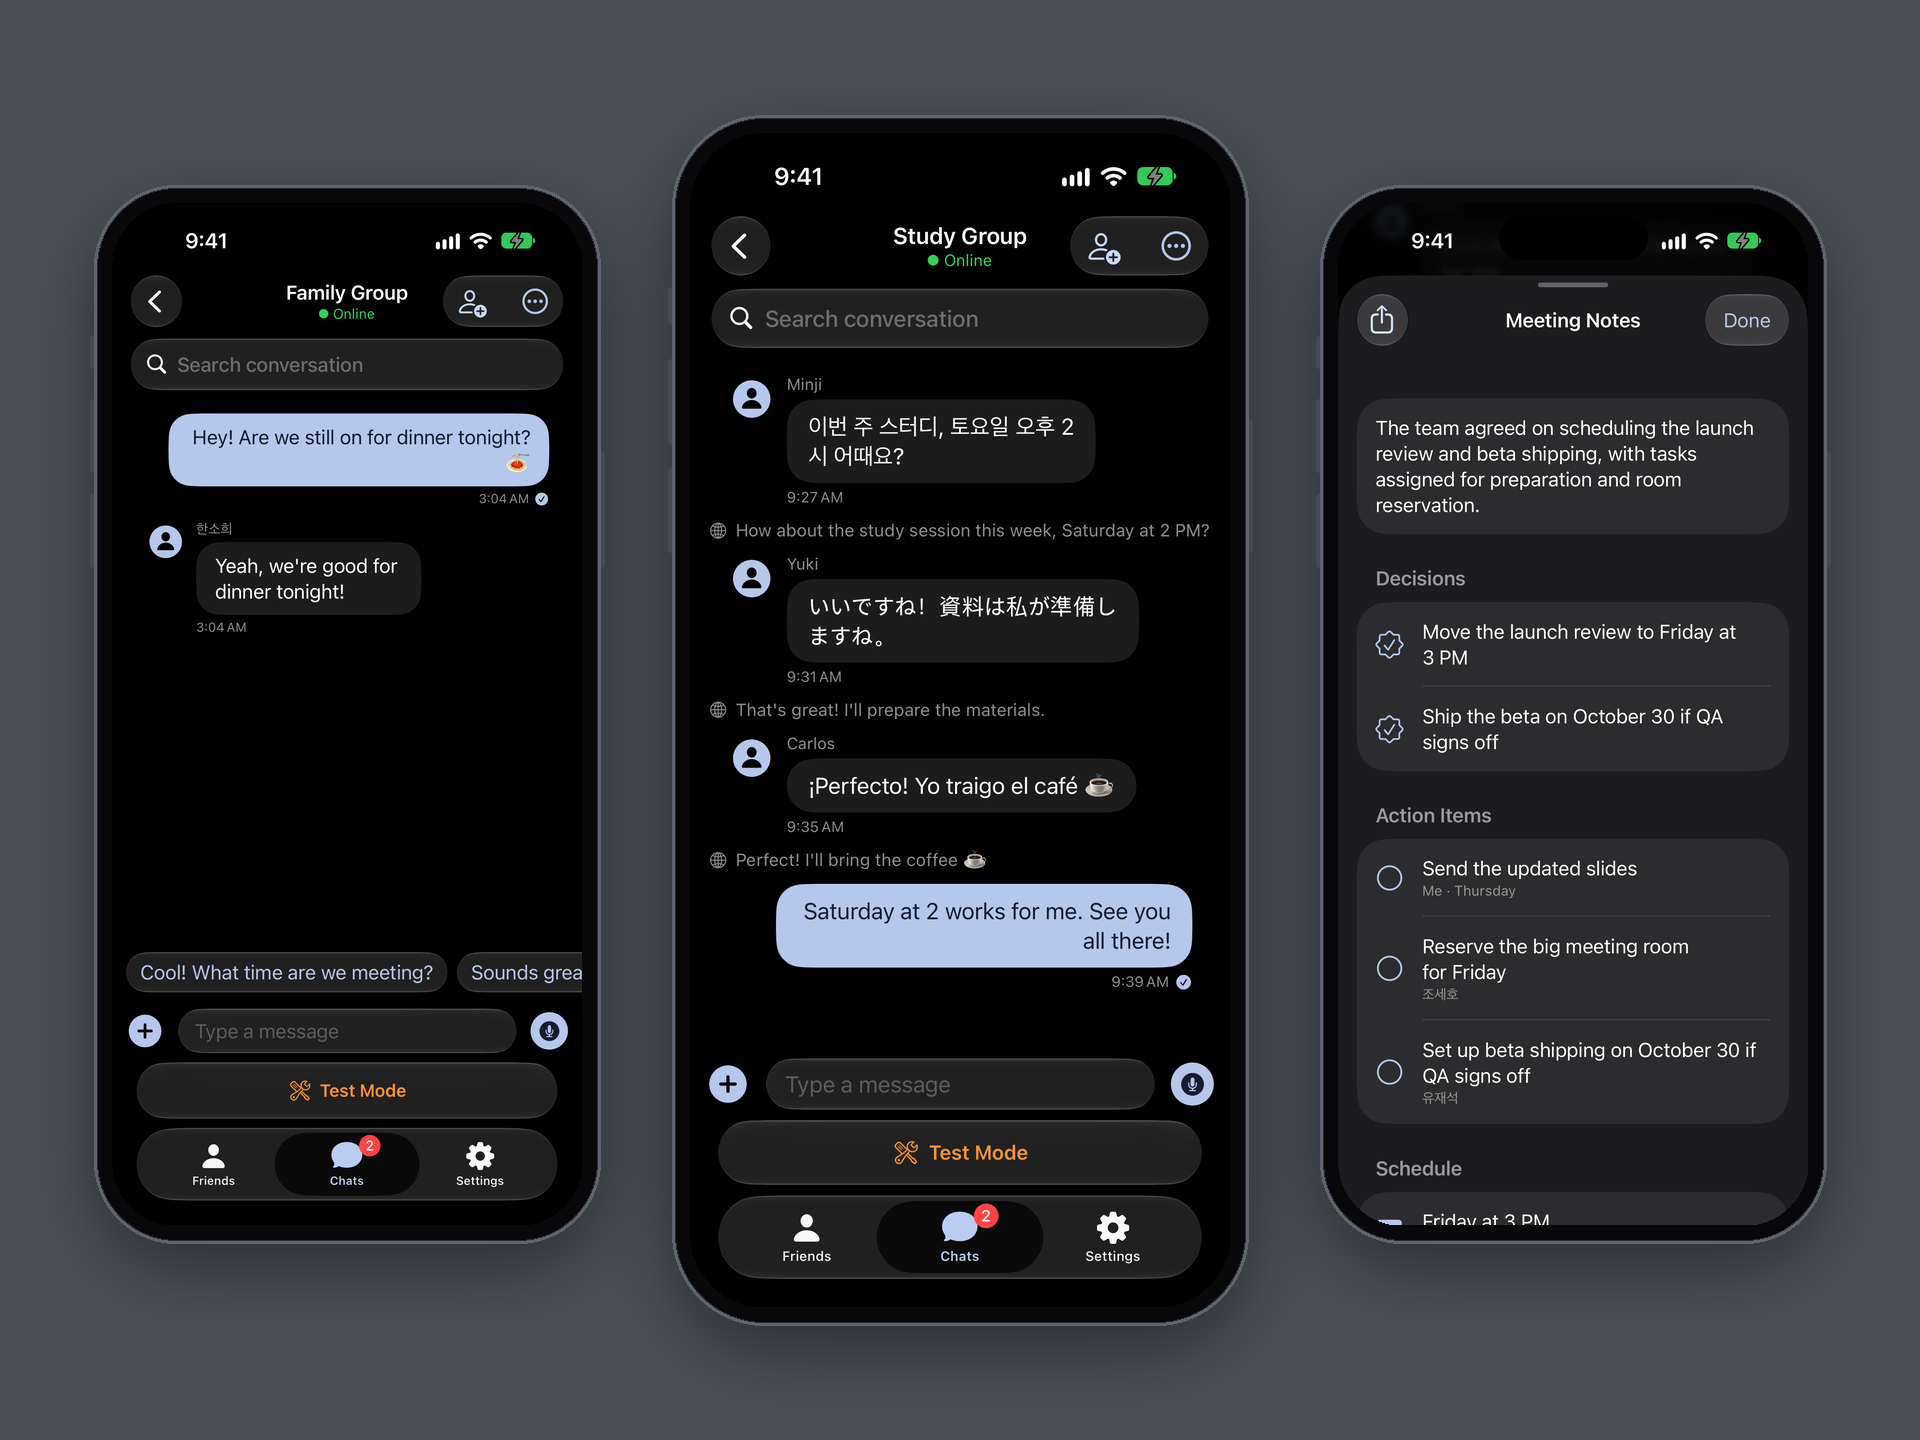
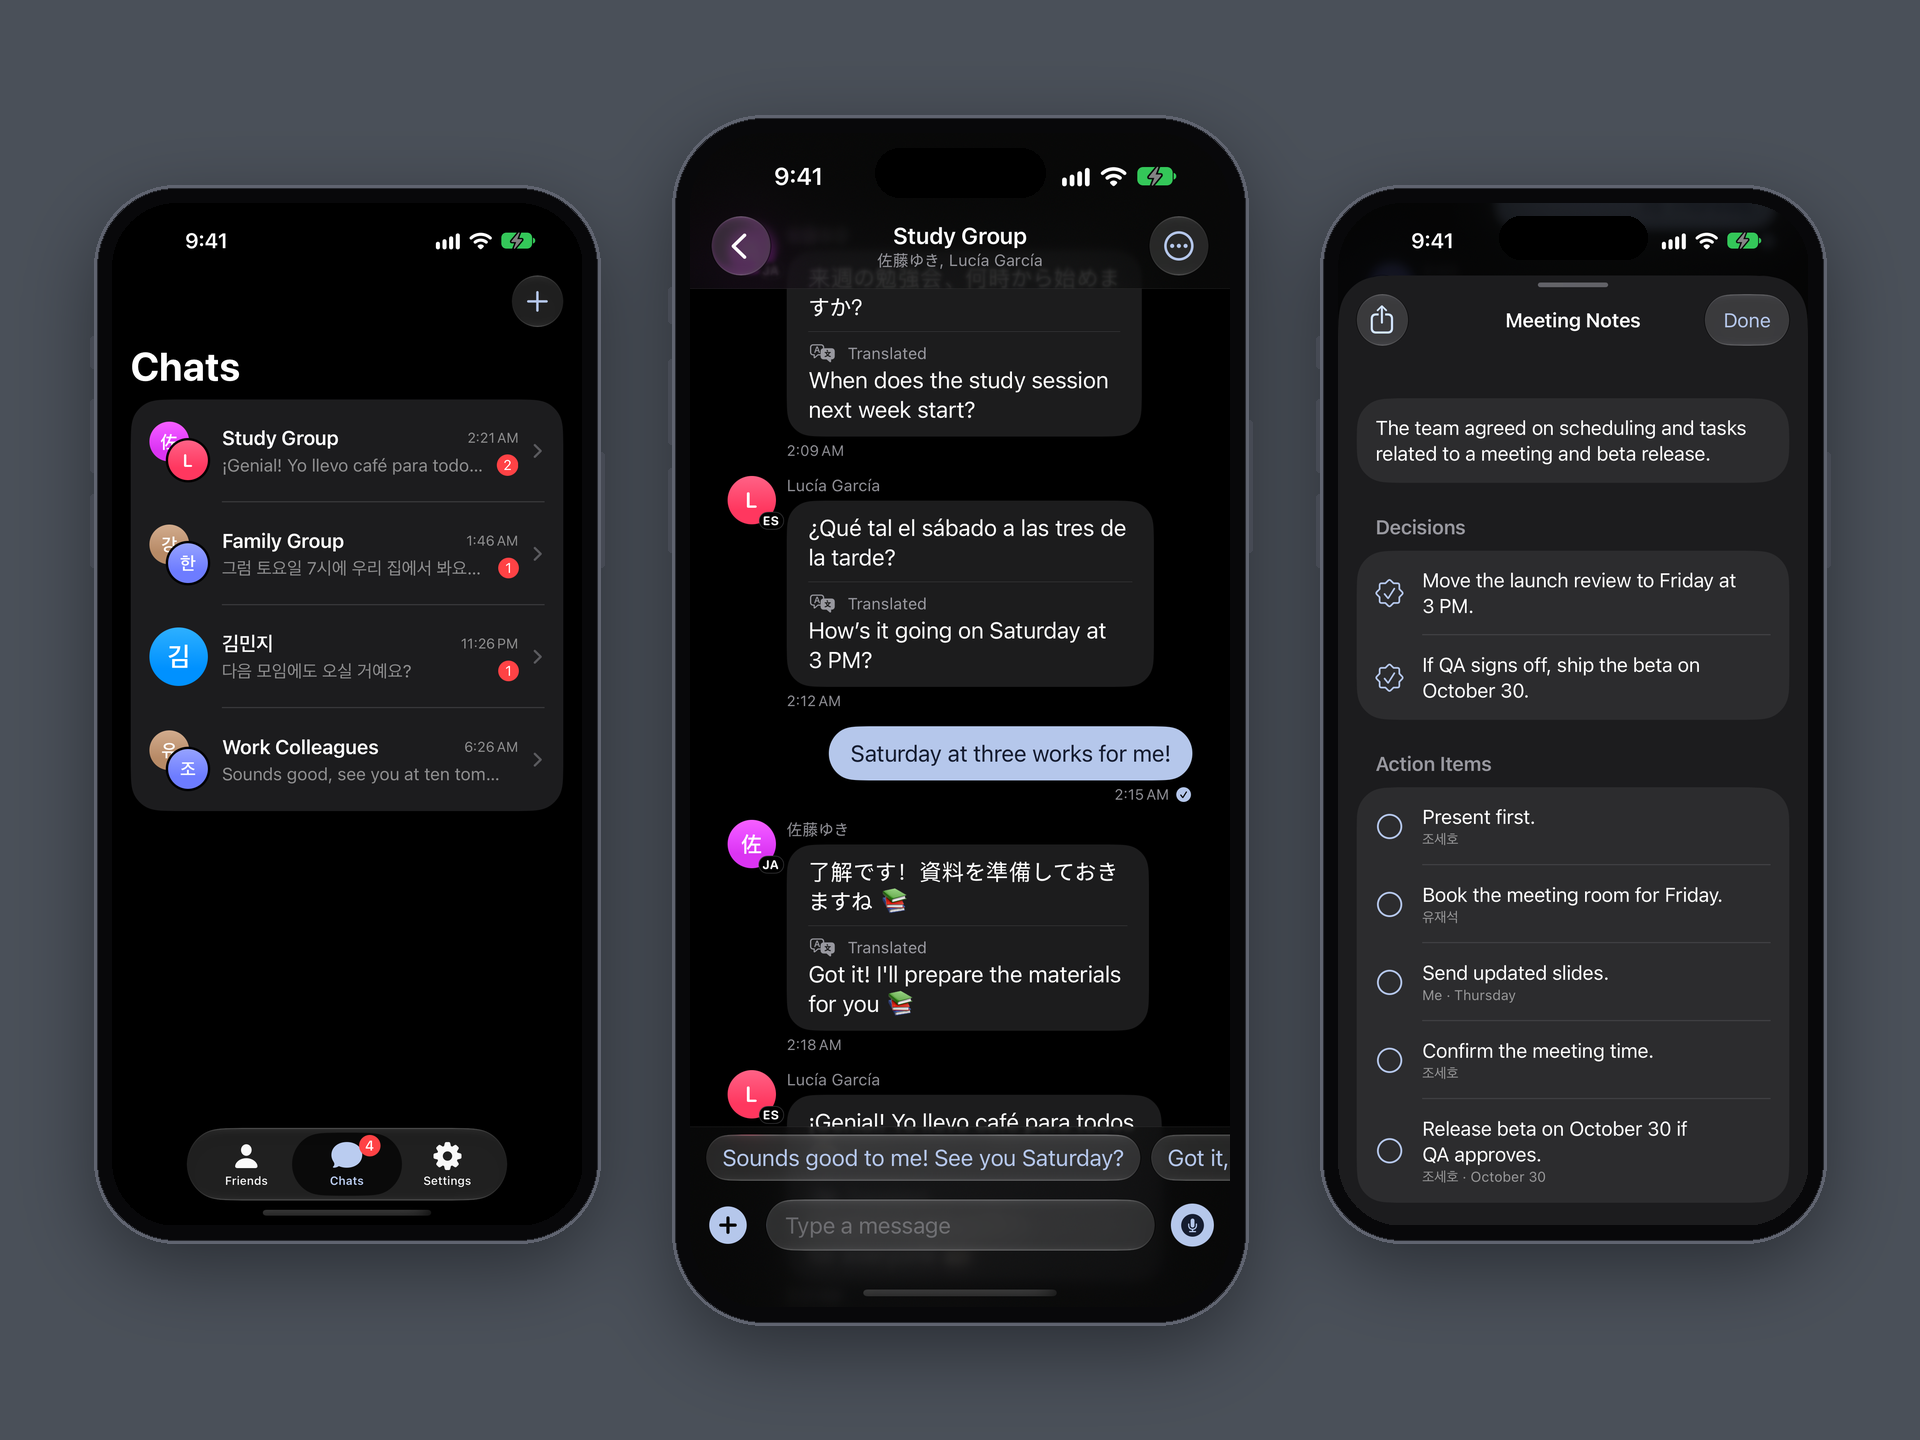
docs: tell L!NK's story and retake the README screenshots
The README described a minimal translating messenger, and every
screenshot showed what stages 5 and 6 removed: the Test Mode bar, a
random "Online", "Hello!" previews, translations under the bubbles. It
now says what L!NK is for, a messenger anyone can pick up, older people
included, and what it adds to the translation iOS 26 already does in
Messages: search by meaning across languages, summaries and meeting
notes of a mixed-language chat, AI output that is labeled and checked,
and nothing on screen the app can't know.

The screenshots are retaken from the sample chats on the iOS 27
simulator: the chat list, the study group translated inside each bubble,
meeting notes, reply suggestions with an English search finding a
Korean message, and the summary. The iPhone Duo image showed the old
screens and the Duo is on hold, so an iPad image of the chat list beside
a conversation takes its place. ENGINEERING.md gains a note on removing
made-up state and loses OpenChatRooms.

diff --git a/docs/ENGINEERING.md b/docs/ENGINEERING.md
@@ -15,7 +15,11 @@ L!NK has no backend: the other side of every chat is simulated, and every AI fea
 - **Suggestions from the right side of the chat.** Suggested replies lost track of who was talking: "Congrats! When do you start?" got the suggestion "Congrats!". The transcript now marks Me and Them. An example answer in the prompt fixed it too, but then turned up word for word in unrelated chats, so it went.
 - **Search by meaning across languages.** "저녁 약속" (dinner plans) should find "dinner tonight". Asked for related phrases, the model invented ones no message contains, so it returns single words. Asked for synonyms and translations together, it stayed in the search's language, so translations get a list of their own. And it translated the search as a whole ("dinner appointment"), so translations are matched word by word. The chat shows which words it added, so no match is a mystery.
 - **Photo descriptions on iOS 27.** Asked in English for a Korean description, the model answered in English and then translated itself, so the request is now written in the language it should answer in. On iOS 26, photos work as before.
-- **No translation beats a made-up one.** When neither Apple Intelligence nor the Translation framework could translate a message, the app fell back on a short phrasebook and on swapping Korean and English words one at a time, and showed the result as the translation. Now the line under the message says it couldn't translate.
+- **No translation beats a made-up one.** When neither Apple Intelligence nor the Translation framework could translate a message, the app fell back on a short phrasebook and on swapping Korean and English words one at a time, and showed the result as the translation. Now the translation half of the bubble says it couldn't translate.
+
+### Saying only what's true
+
+- **No made-up state.** A design review of the screenshots asked what "Online" meant under a group's name. It meant nothing: a random 80% chance every 30 seconds, and every friend row said "online" too. Opening a chat also staged a "Connecting..." banner for a server that doesn't exist, and a canned "Hello!" landed in a random room every half minute. All of it is gone. Under a chat's title is what the app knows (a group's members, or the language the other person writes in), and the sample chats start with real conversations in Korean, Japanese and Spanish.
 
 ### One codebase, iOS 26 and iOS 27
 
@@ -50,12 +54,12 @@ The app target is split by role: screens live in `Features/`, one folder per flo
 link-mvp/
 ├── TalkMVP.xcodeproj/
 ├── TalkMVP/
-│   ├── App/                     # Entry point and the tab shell
+│   ├── App/                     # Entry point, the tab shell, the router and the sample chats
 │   ├── Features/                # Screens, one folder per flow
 │   │   ├── Auth/                # AuthView, SSOSignInView, AppLockView, OnboardingContactsView
 │   │   ├── Chats/               # ChatListView
 │   │   ├── Conversation/        # ChatView (+Friends/Helpers/Input/Media/Messages/Sheets), ChatViewModel,
-│   │   │                        # MessageBubbleView, MeetingNotesView, ChatRoomBackgroundSettings, …
+│   │   │                        # MessageBubbleView, SenderAvatar, GroupInfoSheet, MeetingNotesView, …
 │   │   ├── Friends/             # FriendsView, FriendProfileView, FriendRowViews, AddFriendView, FriendManagementViews
 │   │   └── Settings/            # SettingsView, SettingsCardComponents, ProfileEditView, *SettingsView pages,
 │   │                            # HelpView, AppInfoView, TermsPoliciesView
@@ -63,7 +67,7 @@ link-mvp/
 │   │   ├── AI/                  # AIService, MeetingNotes (+Extractor/Grounding), ReplySuggestions, ReplyWriter,
 │   │   │                        # MessageTranslation, MessageSearch, PhotoDescriber, VoiceTranscriber, …
 │   │   ├── Auth/                # AuthManager, GoogleOAuthService, AppLockManager
-│   │   ├── Chat/                # ChatService (+Protocol), AutoResponseService, OpenChatRooms, NotificationManager,
+│   │   ├── Chat/                # ChatService (+Protocol), AutoResponseService, NotificationManager,
 │   │   │                        # LocalNotificationDelegate
 │   │   ├── Contacts/            # ContactsSyncService, FriendSearchService
 │   │   ├── Location/            # LocationManager

diff --git a/README.md b/README.md
@@ -9,37 +9,46 @@
 ![iOS | iPadOS](https://img.shields.io/badge/iOS%20%7C%20iPadOS-26+-000000?style=flat-square&logo=apple&logoColor=white)
 ![License](https://img.shields.io/badge/License-All%20Rights%20Reserved-red?style=flat-square)
 
-![L!NK: reply suggestions, inline translation across three languages, and meeting notes](docs/screenshots/main.png)
+![L!NK: the chat list, a group chat translated inside each message, and meeting notes](docs/screenshots/main.png)
 
 </div>
 
-You write in Korean, they answer in Japanese, and you both read your own language. L!NK is a minimal messenger that puts a translation under every message and keeps everything else out of the way.
+You write in Korean, they answer in Japanese, and you both read your own language. L!NK is a messenger anyone can pick up, older people included: one obvious place for each action, text that grows as large as iOS allows, and the translation inside every message, not under it.
 
-Every AI feature runs on the device with Apple Intelligence, and there is no server: the other side of each chat is simulated, so anyone can try the app in Test Mode without an account.
+Every AI feature runs on the device with Apple Intelligence, and there is no server: the people in the sample chats are simulated, so anyone can try the app in Test Mode without an account.
+
+## Beyond translation
+
+iOS 26 already translates Messages as you read them. L!NK works on what comes after the translation, and on making the AI's part easy to check:
+
+- **Search by meaning, across languages.** "dinner plans" finds "이번 주말에 다 같이 저녁 먹을까요?", and the chat shows which words it added to the search.
+- **Summaries in your language, and meeting notes**, from a chat that mixes languages. Every task quotes the message it came from, and dates are read by a date detector, not the model.
+- **AI that says it's AI.** Translations are labeled inside the bubble, the summary carries the Apple Intelligence mark, and a suggested reply goes into the message field for you to change or send: nothing is sent for you.
+- **Nothing made up.** No fake "online" status or connection banner: under a chat's name is what the app knows, a group's members or the language the other person writes in.
 
 ## Features
 
 - **Inline translation**: every message, translated on device, across seven languages.
 - **On-device AI**: chat summaries, meeting notes with owners and dates, reply suggestions, search by meaning across languages, and photo descriptions on iOS 27.
 - **Messaging**: voice messages with transcripts, photos, files, locations, reactions, and disappearing and scheduled messages.
+- **Easy for everyone**: Dynamic Type up to the largest sizes, VoiceOver that reads each translation with its message, high-contrast bubbles, the same face for each person everywhere, five app languages, Siri and Shortcuts, and App Lock.
 - **Any screen**: iPhone, iPad, and iPhone Duo folded or open.
-- **For everyone**: Dynamic Type, VoiceOver, five app languages, Siri and Shortcuts, and App Lock.
 
 ## Screenshots
 
 Sample chats on the iOS 27 simulator. The translations, replies, summaries and notes in them are real output of the on-device models.
 
-**Reply suggestions and search by meaning.** Three short replies appear when someone writes. Searching "저녁 약속" (dinner plans) finds "dinner tonight".
+**Reply suggestions and search by meaning.** Three short replies appear when someone writes. Searching "dinner plans" in English finds the Korean message about dinner.
 
-![Suggested replies above the message field, and a Korean search that finds an English message](docs/screenshots/suggestions-search.png)
+![Suggested replies above the message field, and an English search that finds a Korean message](docs/screenshots/suggestions-search.png)
 
 **Summary and meeting notes.** Every task quotes the message it came from, and dates come from a date detector, not the model.
 
 ![A chat summary and the meeting notes of the same chat](docs/screenshots/summary.png)
 
-**iPhone Duo.** Open, the chat list stays beside the conversation; folded, the app shows one screen at a time.
+**iPad.** In a wide window the chat list stays beside the conversation.
 
-![L!NK on an open iPhone Duo, with the chat list beside a translated group chat](docs/screenshots/duo.png)
+![L!NK on iPad, with the chat list beside a group chat in Japanese and Spanish translated into English](docs/screenshots/ipad.png)
 
 ## How it's built
 
